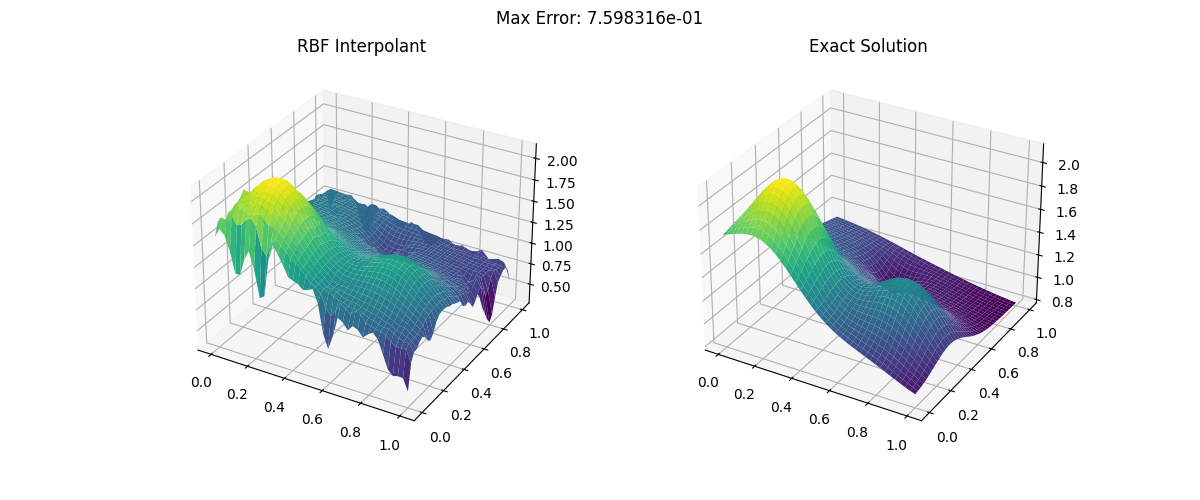
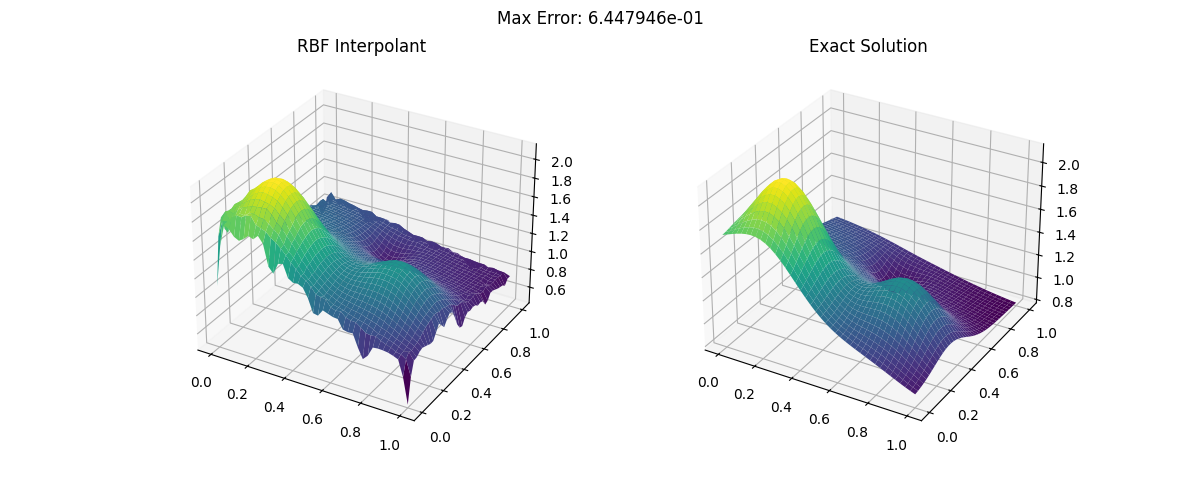
wrote rbf interpolant using halton points

Changed region(s): [[0.1542, 0.21, 0.4933, 0.78], [0.4008, 0.0, 0.5858, 0.06], [0.3392, 0.24, 0.37, 0.27]]

diff --git a/rbf_interpolant_halton.py b/rbf_interpolant_halton.py
@@ -4,6 +4,7 @@ from distance_matrix import distance_matrix
 import scipy.linalg as la
 import matplotlib.pyplot as plt 
 import os
+from scipy.stats.qmc import Halton
 
 def rbf(ep, r):
     return np.exp(-(ep * r) ** 2)
@@ -17,7 +18,9 @@ grid = np.linspace(0, 1, neval)
 xe, ye = np.meshgrid(grid, grid)
 epoints = np.column_stack([xe.ravel(), ye.ravel()])
 
-dsites = np.random.rand(N, 2)  
+
+dsampler = Halton(d=2, scramble=True)
+dsites = dsampler.random(N)
 ctrs = dsites
 
 rhs = frankes(dsites[:, 0], dsites[:, 1])
@@ -36,25 +39,25 @@ rms_err = np.linalg.norm(Pf - exact) / neval
 print(f'RMS error: {rms_err:e}')
 print(f'Maximum error: {maxerr:e}')
 
-# Create results folder if it doesn't exist
 os.makedirs("results", exist_ok=True)
 
-# Save results
-np.save("results/Pf.npy", Pf)
-np.save("results/exact.npy", exact)
-np.save("results/errors.npy", np.array([rms_err, maxerr]))
+
+np.save("results/Pf_halton.npy", Pf)
+np.save("results/exact_halton.npy", exact)
+np.save("results/errors_halton.npy", np.array([rms_err, maxerr]))
 
 def plot_surface(xe, ye, Pf, exact, maxerr):
     fig = plt.figure(figsize=(12, 5))
     ax = fig.add_subplot(121, projection='3d')
     ax.plot_surface(xe, ye, Pf.reshape(xe.shape), cmap='viridis')
-    ax.set_title("RBF Interpolant")
+    ax.set_title("RBF Interpolant using Halton Points")
     
     ax2 = fig.add_subplot(122, projection='3d')
     ax2.plot_surface(xe, ye, exact.reshape(xe.shape), cmap='viridis')
     ax2.set_title("Exact Solution")
     
     plt.suptitle(f"Max Error: {maxerr:e}")
-    plt.savefig("results/interpolation_plot.png")
+    plt.savefig("results/interpolation_plot_halton.png")
+  
 
 plot_surface(xe, ye, Pf, exact, maxerr)
